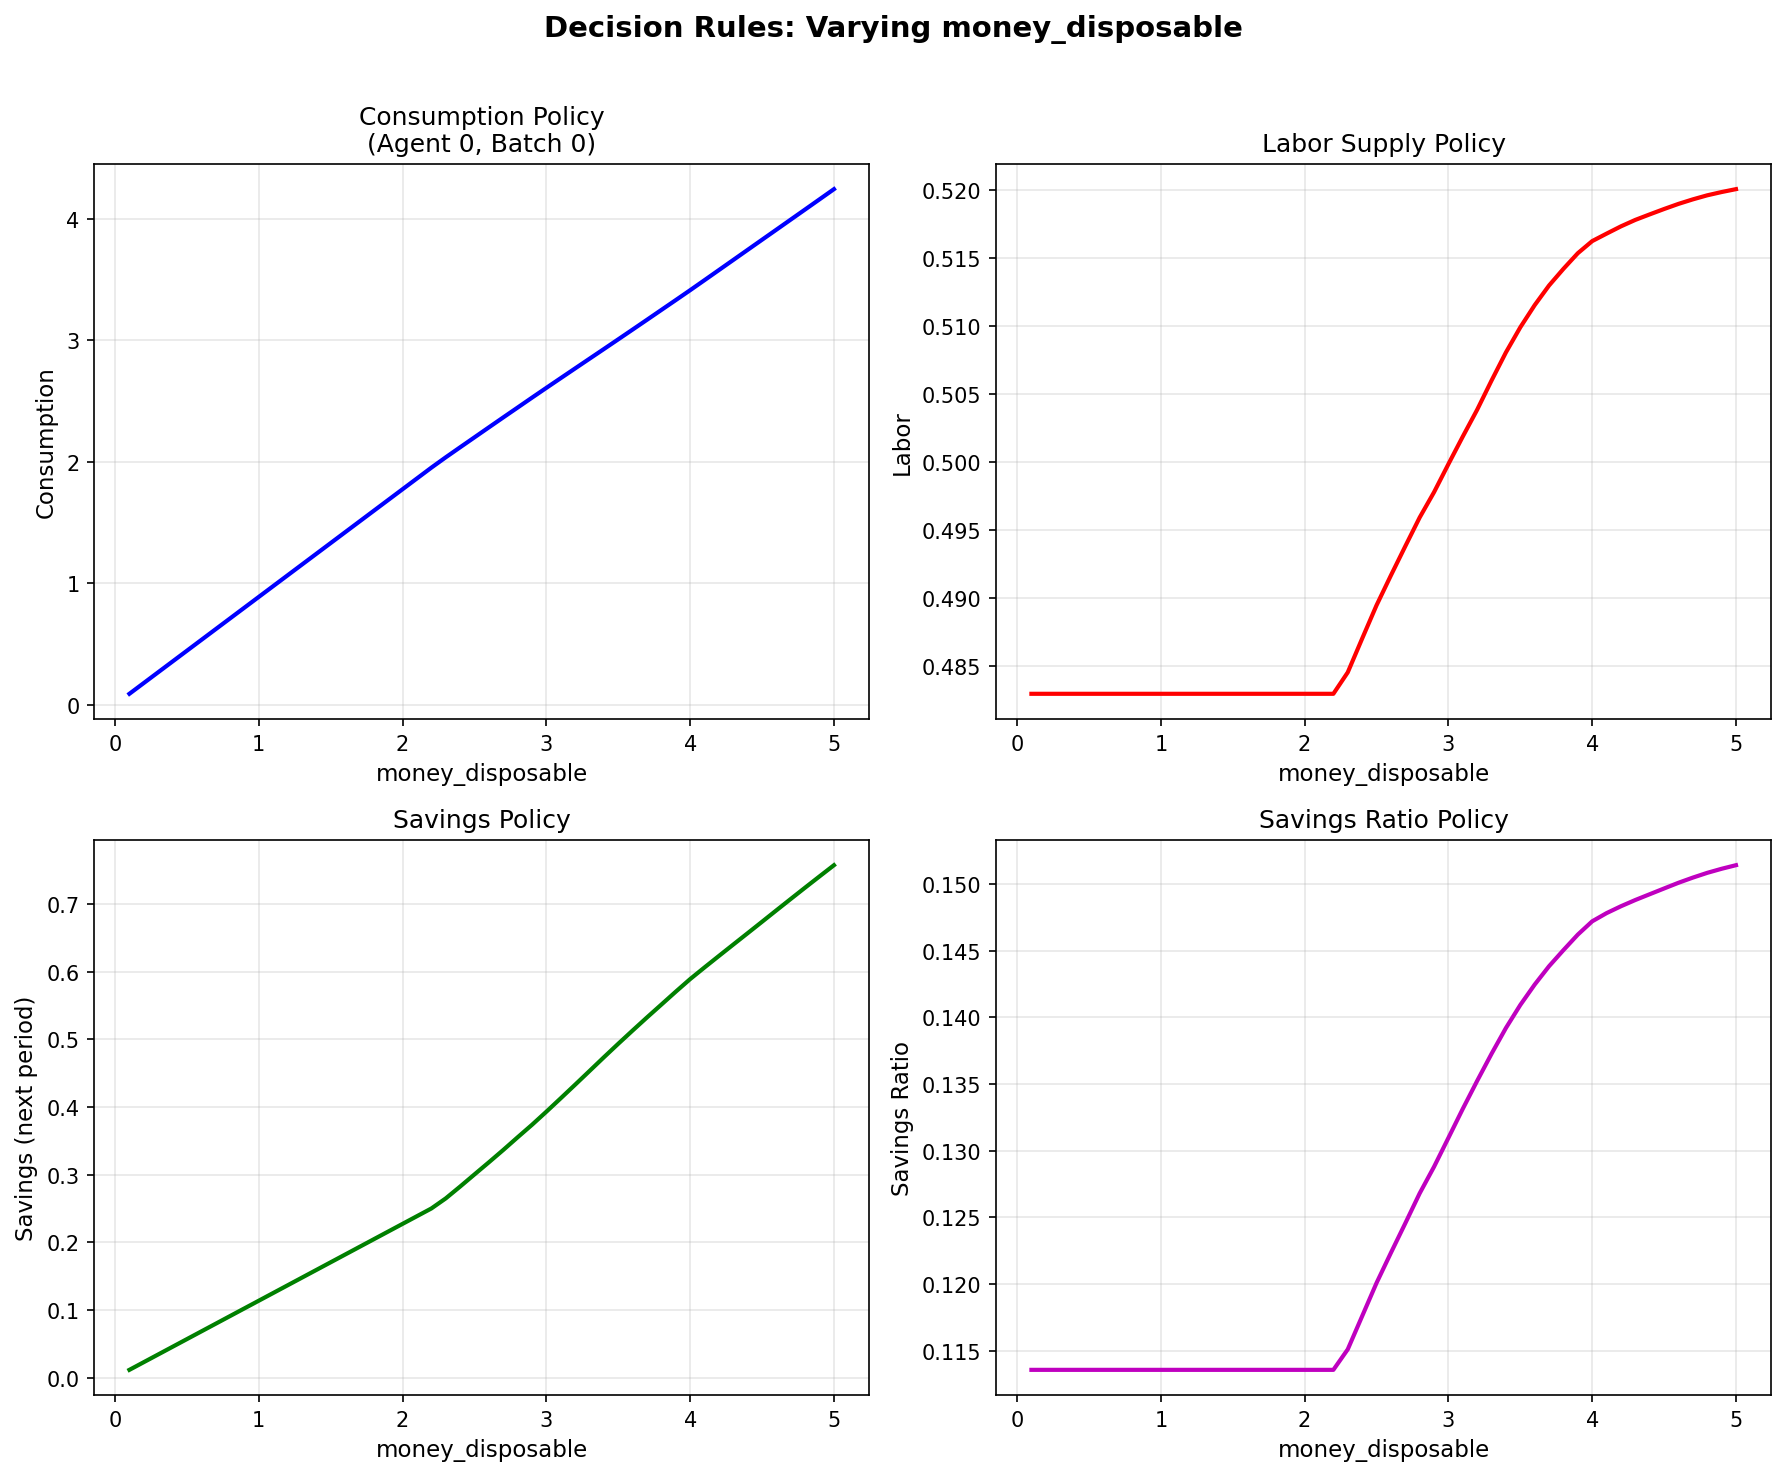
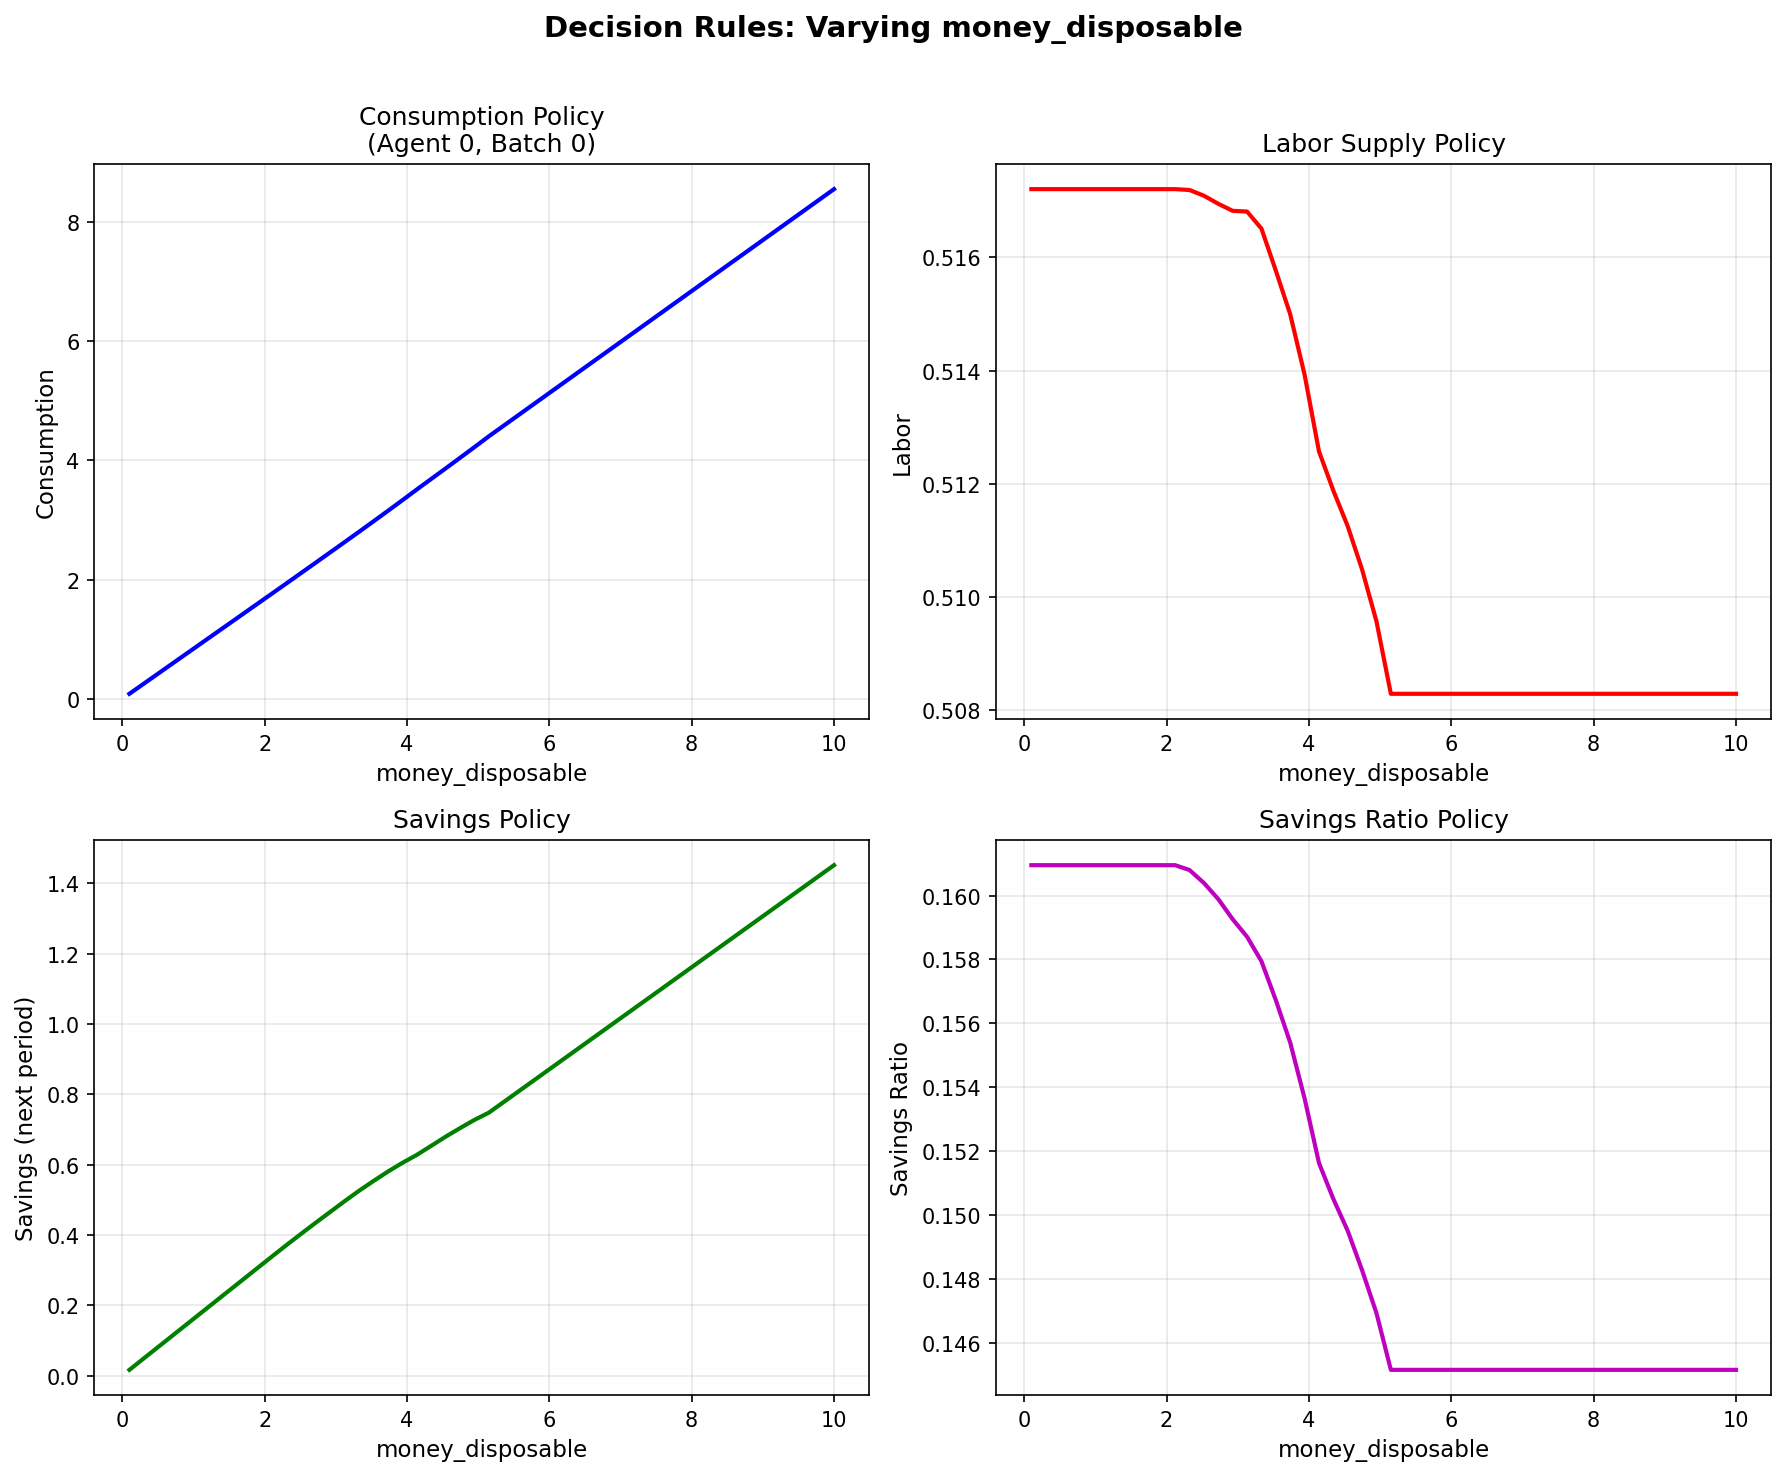
update of adding different step and state_step. TODO: Identify the insignificance of the plot

diff --git a/vis_dc_rle.py b/vis_dc_rle.py
@@ -498,11 +498,16 @@ def main():
     parser.add_argument("--checkpoint_dir", type=str, required=True,
                        help="Path to checkpoint directory (e.g., checkpoints/run_name)")
     parser.add_argument("--step", type=int, required=True,
-                       help="Training step to load")
+                       help="Training step to load model weights from")
+    parser.add_argument("--state_step", type=int, default=None,
+                       help="Training step to load state from (default: same as --step)")
     parser.add_argument("--config", type=str, default="config/baseline.yaml",
                        help="Path to config file")
 
     args = parser.parse_args()
+
+    # If state_step not specified, use the same as model step
+    state_step = args.state_step if args.state_step is not None else args.step
 
     # Load config
     if not os.path.exists(args.config):
@@ -523,18 +528,37 @@ def main():
     print(f"DECISION RULE VISUALIZATION")
     print(f"{'='*60}")
     print(f"Checkpoint dir: {args.checkpoint_dir}")
-    print(f"Step:           {args.step}")
+    print(f"Model step:     {args.step}")
+    print(f"State step:     {state_step}")
     print(f"Config:         {args.config}")
     print(f"Device:         {device}")
     print(f"{'='*60}\n")
 
-    # Load checkpoint
-    policy_net, normalizer, state = load_checkpoint(
+    # Load model weights and normalizer from specified step
+    policy_net, normalizer, _ = load_checkpoint(
         checkpoint_dir=args.checkpoint_dir,
         step=args.step,
         config=config,
         device=device
     )
+
+    # Load state from potentially different step
+    if state_step != args.step:
+        print(f"Loading state from different step: {state_step}")
+        _, _, state = load_checkpoint(
+            checkpoint_dir=args.checkpoint_dir,
+            step=state_step,
+            config=config,
+            device=device
+        )
+    else:
+        # State already loaded with the model
+        _, _, state = load_checkpoint(
+            checkpoint_dir=args.checkpoint_dir,
+            step=args.step,
+            config=config,
+            device=device
+        )
 
     # Initialize environment
     env = EconomyEnv(config, normalizer, device=device)
@@ -559,7 +583,7 @@ def main():
         batch_idx=0,
         agent_idx=0,
         vary_var="money_disposable",
-        vary_range=(0.1, 5),
+        vary_range=(0.1, 10),
         n_points=50
     )
 

diff --git a/README.md b/README.md
@@ -189,8 +189,14 @@ python vis_dc_rle.py --checkpoint_dir checkpoints/bewley_default_run --step 2500
 
 **Arguments:**
 - `--checkpoint_dir`: Path to the checkpoint directory (e.g., `checkpoints/Tax_Exp_BaselineRun`)
-- `--step`: Training step to load (e.g., `2500`)
+- `--step`: Training step to load model weights from (e.g., `2500`)
+- `--state_step`: (Optional) Training step to load state from (default: same as `--step`)
 - `--config`: (Optional) Path to config file (default: `config/baseline.yaml`)
+
+```bash
+# Different step for env and weights
+python vis_dc_rle.py --checkpoint_dir checkpoints/bewley_default_run --step 10000 --state_step 2500
+```
 
 ### What the Script Does
 
